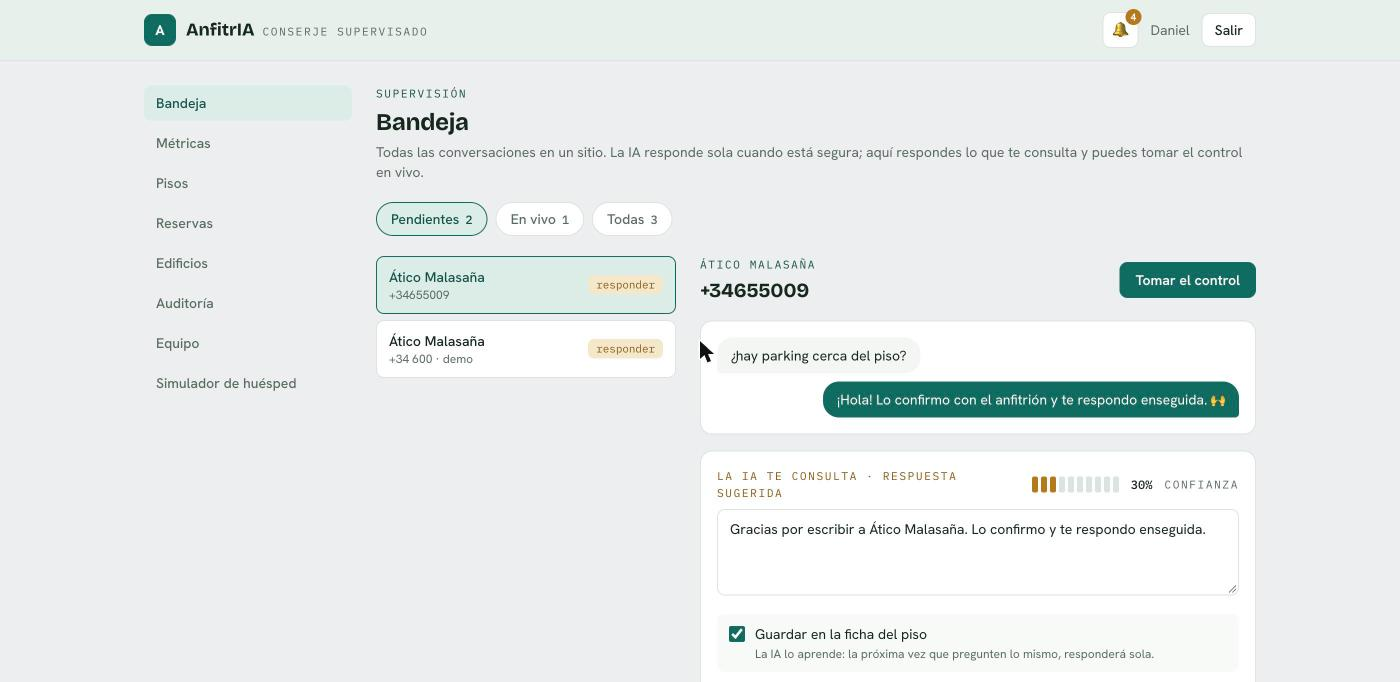
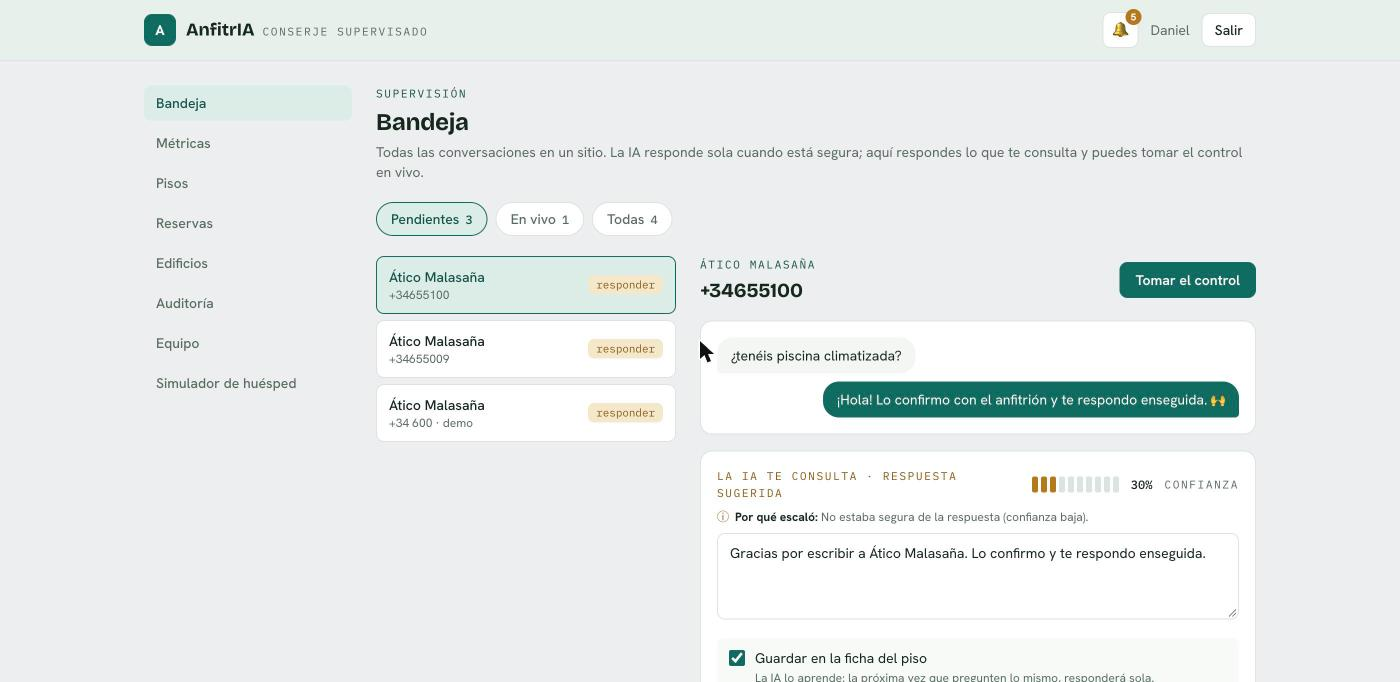
feat: '¿por qué escaló?' + sensibilidad de la IA por piso
- Draft.reason (auto/manual/sin_info/poca_confianza): se guarda el motivo y se
  muestra en la Bandeja ('Por qué escaló: ...')
- Umbral de confianza por piso (Property.auto_answer_threshold) + PATCH /properties;
  selector de sensibilidad (responde más / equilibrada / pregunta más) en Pisos
- Migración; +4 tests (57 backend), verificado en vivo

Claude-Session: https://claude.ai/code/session_01Vx6Kn3N7cjVf7QimiVSw3U

diff --git a/frontend/src/pages/PropertiesPage.tsx b/frontend/src/pages/PropertiesPage.tsx
@@ -3,6 +3,7 @@ import { useMutation, useQuery, useQueryClient } from '@tanstack/react-query'
 
 import { BuildingsApi, PropertiesApi } from '../api/endpoints'
 import { Button, Card, ConfirmButton, EmptyState, Field, Tag, TextArea } from '../components/ui'
+import { notify } from '../components/Toast'
 import type { KnowledgeItem, Property } from '../types'
 
 const CATEGORIES = ['check-in', 'wifi', 'cómo llegar', 'normas', 'recomendaciones', 'general']
@@ -163,6 +164,18 @@ function KnowledgePanel({ property }: { property: Property }) {
     },
   })
 
+  const setSensitivity = useMutation({
+    mutationFn: (threshold: number) =>
+      PropertiesApi.update(property.id, { auto_answer_threshold: threshold }),
+    onSuccess: () => {
+      notify('Sensibilidad actualizada.', 'success')
+      void queryClient.invalidateQueries({ queryKey: ['properties'] })
+    },
+  })
+  const th = property.auto_answer_threshold ?? 0.55
+  const sensitivity = th <= 0.45 ? 'responde' : th >= 0.65 ? 'pregunta' : 'equilibrada'
+  const SENS_TO_TH: Record<string, number> = { responde: 0.4, equilibrada: 0.55, pregunta: 0.7 }
+
   const fileRef = useRef<HTMLInputElement>(null)
   const importFile = useMutation({
     mutationFn: (file: File) => PropertiesApi.importKnowledge(property.id, file),
@@ -175,6 +188,23 @@ function KnowledgePanel({ property }: { property: Property }) {
         <p className="eyebrow text-brand-ink">Ficha de conocimiento</p>
         <h2 className="mt-1 font-display text-xl font-bold text-ink">{property.name}</h2>
       </header>
+
+      <Card className="flex flex-wrap items-center justify-between gap-3 p-4">
+        <div>
+          <span className="text-sm font-medium text-ink">Sensibilidad de la IA</span>
+          <p className="text-xs text-muted">Cuánta seguridad necesita para responder sola.</p>
+        </div>
+        <select
+          value={sensitivity}
+          onChange={(e) => setSensitivity.mutate(SENS_TO_TH[e.target.value])}
+          disabled={setSensitivity.isPending}
+          className="rounded-lg border border-line bg-surface px-3 py-2 text-sm text-ink focus:border-brand focus:ring-2 focus:ring-brand-soft"
+        >
+          <option value="responde">Responde más (menos escaladas)</option>
+          <option value="equilibrada">Equilibrada</option>
+          <option value="pregunta">Pregunta más (más escaladas)</option>
+        </select>
+      </Card>
 
       <Card className="p-4">
         <div className="flex flex-col gap-3">

diff --git a/frontend/src/pages/BandejaPage.tsx b/frontend/src/pages/BandejaPage.tsx
@@ -12,6 +12,11 @@ type Filter = 'pending' | 'live' | 'all'
 const SOURCE_LABEL: Record<string, string> = {
   booking: 'Booking', airbnb: 'Airbnb', direct: 'Directa', other: 'Otro',
 }
+const REASON_LABEL: Record<string, string> = {
+  sin_info: 'No encontró información que encaje en la ficha del piso.',
+  poca_confianza: 'No estaba segura de la respuesta (confianza baja).',
+  manual: 'Este piso está en modo manual: revisas todas las respuestas.',
+}
 function fmtDay(iso: string): string {
   return new Date(iso + 'T00:00:00').toLocaleDateString('es-ES', { day: '2-digit', month: 'short' })
 }
@@ -285,6 +290,14 @@ function ApprovalBox({ item }: { item: InboxItem }) {
         <span className="eyebrow text-brass-ink">La IA te consulta · respuesta sugerida</span>
         <ConfidenceMeter value={item.draft.confidence} />
       </div>
+      {item.draft.reason && REASON_LABEL[item.draft.reason] ? (
+        <p className="mb-2 flex items-start gap-1.5 text-xs text-muted">
+          <span aria-hidden className="text-brass-ink">ⓘ</span>
+          <span>
+            <b className="text-ink">Por qué escaló:</b> {REASON_LABEL[item.draft.reason]}
+          </span>
+        </p>
+      ) : null}
       <TextArea rows={3} value={text} onChange={(e) => setText(e.target.value)} />
       <label className="mt-3 flex items-start gap-2.5 rounded-lg bg-sunk/60 px-3 py-2.5">
         <input

diff --git a/frontend/src/api/endpoints.ts b/frontend/src/api/endpoints.ts
@@ -75,8 +75,13 @@ export const PropertiesApi = {
     address?: string
     default_language: string
     auto_answer?: boolean
+    auto_answer_threshold?: number | null
     building_id?: number | null
   }) => api<Property>('/properties', { method: 'POST', body }),
+  update: (
+    id: number,
+    body: Partial<{ auto_answer: boolean; auto_answer_threshold: number | null }>,
+  ) => api<Property>(`/properties/${id}`, { method: 'PATCH', body }),
   remove: (id: number) => api<void>(`/properties/${id}`, { method: 'DELETE' }),
   knowledge: (propertyId: number) =>
     api<KnowledgeItem[]>(`/properties/${propertyId}/knowledge`),

diff --git a/frontend/src/types.ts b/frontend/src/types.ts
@@ -29,6 +29,7 @@ export interface Property {
   address: string | null
   default_language: string
   auto_answer: boolean
+  auto_answer_threshold: number | null
   building_id: number | null
 }
 
@@ -53,6 +54,7 @@ export interface Draft {
   language: string
   confidence: number
   model: string
+  reason: string | null
   status: string
 }
 

diff --git a/backend/tests/test_reason.py b/backend/tests/test_reason.py
@@ -1,0 +1,76 @@
+"""Tests del '¿por qué escaló?' (motivo) y del umbral de sensibilidad por piso."""
+import pytest
+
+from tests.conftest import register_and_login
+
+
+async def _prop(client, headers, **extra):
+    body = {"name": "Piso", "auto_answer": True, **extra}
+    return (await client.post("/properties", json=body, headers=headers)).json()["id"]
+
+
+async def _inbound(client, headers, pid, text, guest="+34600"):
+    return await client.post(
+        "/channels/sim/inbound",
+        json={"property_id": pid, "guest_ref": guest, "text": text},
+        headers=headers,
+    )
+
+
+async def _last_reason(client, headers):
+    inbox = (await client.get("/inbox", headers=headers)).json()
+    return inbox[0]["draft"]["reason"]
+
+
+@pytest.mark.asyncio
+async def test_reason_sin_info(client):
+    headers = await register_and_login(client, email="r1@test.com")
+    pid = await _prop(client, headers)  # sin conocimiento
+    r = await _inbound(client, headers, pid, "¿hay piscina?")
+    assert r.json()["answered"] is False
+    assert await _last_reason(client, headers) == "sin_info"
+
+
+@pytest.mark.asyncio
+async def test_reason_poca_confianza(client):
+    headers = await register_and_login(client, email="r2@test.com")
+    pid = await _prop(client, headers)
+    await client.post(
+        f"/properties/{pid}/knowledge",
+        json={"category": "check-in", "content": "El check-in es a las 15:00"},
+        headers=headers,
+    )
+    # Hay ficha, pero la pregunta no encaja → escala por poca confianza.
+    await _inbound(client, headers, pid, "¿hay piscina climatizada?")
+    assert await _last_reason(client, headers) == "poca_confianza"
+
+
+@pytest.mark.asyncio
+async def test_reason_manual(client):
+    headers = await register_and_login(client, email="r3@test.com")
+    pid = await _prop(client, headers, auto_answer=False)
+    await _inbound(client, headers, pid, "hola")
+    assert await _last_reason(client, headers) == "manual"
+
+
+@pytest.mark.asyncio
+async def test_per_property_threshold(client):
+    headers = await register_and_login(client, email="r4@test.com")
+    pid = await _prop(client, headers, auto_answer_threshold=0.99)
+    await client.post(
+        f"/properties/{pid}/knowledge",
+        json={"category": "wifi", "content": "La contraseña del wifi es CASA-1234"},
+        headers=headers,
+    )
+    # Umbral altísimo: aunque encuentre el wifi, no llega → escala.
+    r = await _inbound(client, headers, pid, "¿cuál es la contraseña del wifi?", guest="+34601")
+    assert r.json()["answered"] is False
+
+    # Bajamos el umbral (PATCH) → ahora responde sola.
+    patch = await client.patch(
+        f"/properties/{pid}", json={"auto_answer_threshold": 0.1}, headers=headers
+    )
+    assert patch.status_code == 200
+    assert patch.json()["auto_answer_threshold"] == 0.1
+    r = await _inbound(client, headers, pid, "¿cuál es la contraseña del wifi?", guest="+34602")
+    assert r.json()["answered"] is True

diff --git a/backend/app/api/properties.py b/backend/app/api/properties.py
@@ -14,6 +14,7 @@ from app.schemas import (
     KnowledgeUpdate,
     PropertyCreate,
     PropertyOut,
+    PropertyUpdate,
 )
 from app.services.import_knowledge import parse_upload
 
@@ -56,6 +57,7 @@ async def create_property(
         address=data.address,
         default_language=data.default_language,
         auto_answer=data.auto_answer,
+        auto_answer_threshold=data.auto_answer_threshold,
         whatsapp_phone_number_id=data.whatsapp_phone_number_id,
         building_id=data.building_id,
     )
@@ -80,6 +82,21 @@ async def list_properties(
         .offset(offset)
     )
     return list(result.scalars().all())
+
+
+@router.patch("/properties/{property_id}", response_model=PropertyOut)
+async def update_property(
+    property_id: int,
+    data: PropertyUpdate,
+    user: User = Depends(get_current_user),
+    session: AsyncSession = Depends(get_session),
+) -> Property:
+    prop = await get_owned_property(session, property_id, user)
+    for field_name, value in data.model_dump(exclude_unset=True).items():
+        setattr(prop, field_name, value)
+    await session.commit()
+    await session.refresh(prop)
+    return prop
 
 
 @router.delete("/properties/{property_id}", status_code=status.HTTP_204_NO_CONTENT)

diff --git a/backend/app/models.py b/backend/app/models.py
@@ -77,6 +77,8 @@ class Property(Base):
     default_language: Mapped[str] = mapped_column(String(8), default="es")
     # Si True, la IA responde sola cuando tiene confianza; si no, escala al anfitrión.
     auto_answer: Mapped[bool] = mapped_column(default=True)
+    # Umbral de confianza propio del piso (0-1). Si None, usa el global de la app.
+    auto_answer_threshold: Mapped[float | None] = mapped_column(Float, default=None)
     # Número de WhatsApp (phone_number_id de Meta) asignado a este piso, para enrutar la entrada.
     whatsapp_phone_number_id: Mapped[str | None] = mapped_column(
         String(64), default=None, index=True
@@ -195,6 +197,8 @@ class Draft(Base):
     language: Mapped[str] = mapped_column(String(8), default="es")
     confidence: Mapped[float] = mapped_column(Float, default=0.0)
     model: Mapped[str] = mapped_column(String(64), default="mock")
+    # Por qué actuó así: auto | manual | sin_info | poca_confianza
+    reason: Mapped[str | None] = mapped_column(String(24), default=None)
     # pending | approved | edited | sent
     status: Mapped[str] = mapped_column(String(16), default="pending")
     created_at: Mapped[datetime] = mapped_column(DateTime(timezone=True), default=_utcnow)

diff --git a/backend/app/schemas.py b/backend/app/schemas.py
@@ -68,8 +68,17 @@ class PropertyCreate(BaseModel):
     address: str | None = Field(default=None, max_length=500)
     default_language: str = Field(default="es", max_length=8)
     auto_answer: bool = True
+    auto_answer_threshold: float | None = Field(default=None, ge=0.0, le=1.0)
     whatsapp_phone_number_id: str | None = Field(default=None, max_length=64)
     building_id: int | None = None
+
+
+class PropertyUpdate(BaseModel):
+    name: str | None = Field(default=None, min_length=1, max_length=120)
+    default_language: str | None = Field(default=None, max_length=8)
+    auto_answer: bool | None = None
+    auto_answer_threshold: float | None = Field(default=None, ge=0.0, le=1.0)
+    whatsapp_phone_number_id: str | None = Field(default=None, max_length=64)
 
 
 class PropertyOut(BaseModel):
@@ -79,6 +88,7 @@ class PropertyOut(BaseModel):
     address: str | None
     default_language: str
     auto_answer: bool
+    auto_answer_threshold: float | None
     whatsapp_phone_number_id: str | None
     building_id: int | None
 
@@ -168,6 +178,7 @@ class DraftOut(BaseModel):
     language: str
     confidence: float
     model: str
+    reason: str | None = None
     status: str
 
 

diff --git a/backend/app/services/conversation.py b/backend/app/services/conversation.py
@@ -155,12 +155,31 @@ async def handle_inbound(
         )
     )
 
+    # Umbral efectivo: el propio del piso si lo tiene, si no el global.
+    threshold = (
+        property.auto_answer_threshold
+        if property.auto_answer_threshold is not None
+        else settings.auto_answer_threshold
+    )
+    answered = property.auto_answer and reply.confidence >= threshold
+
+    # Motivo (para el "¿por qué escaló?").
+    if answered:
+        reason = "auto"
+    elif not property.auto_answer:
+        reason = "manual"
+    elif not all_knowledge:
+        reason = "sin_info"
+    else:
+        reason = "poca_confianza"
+
     draft = Draft(
         inbound_message_id=inbound.id,
         text=reply.text,
         language=reply.language,
         confidence=reply.confidence,
         model=reply.model,
+        reason=reason,
         status="pending",
     )
     session.add(draft)
@@ -175,7 +194,6 @@ async def handle_inbound(
     await session.flush()
 
     channel = get_channel()
-    answered = property.auto_answer and reply.confidence >= settings.auto_answer_threshold
 
     if answered:
         # La IA responde sola al huésped.

diff --git a/backend/migrations/versions/0f4026521d17_escalation_reason_and_per_property_.py b/backend/migrations/versions/0f4026521d17_escalation_reason_and_per_property_.py
@@ -1,0 +1,26 @@
+"""escalation reason and per-property threshold
+
+Revision ID: 0f4026521d17
+Revises: 25da2e3992e4
+Create Date: 2026-09-24 11:09:38.558555
+"""
+from collections.abc import Sequence
+
+from alembic import op
+import sqlalchemy as sa
+
+
+revision: str = '0f4026521d17'
+down_revision: str | None = '25da2e3992e4'
+branch_labels: str | Sequence[str] | None = None
+depends_on: str | Sequence[str] | None = None
+
+
+def upgrade() -> None:
+    op.add_column('drafts', sa.Column('reason', sa.String(length=24), nullable=True))
+    op.add_column('properties', sa.Column('auto_answer_threshold', sa.Float(), nullable=True))
+
+
+def downgrade() -> None:
+    op.drop_column('properties', 'auto_answer_threshold')
+    op.drop_column('drafts', 'reason')

diff --git a/README.md b/README.md
@@ -42,8 +42,9 @@ manda un aviso de espera y lo escala (el huésped nunca se queda sin respuesta):
 
 **Bandeja** — todas las conversaciones en un sitio, con filtros **Pendientes /
 En vivo / Todas**. Al abrir una, ves el hilo, la **respuesta sugerida por la IA**
-(con su medidor de confianza) para editarla y enviarla, y puedes **tomar el
-control** para atender en vivo:
+(con su medidor de confianza) para editarla y enviarla, **por qué escaló**
+(no tenía info / poca confianza / modo manual), y puedes **tomar el control**
+para atender en vivo. La **sensibilidad** de la IA se ajusta por piso desde *Pisos*:
 
 ![Bandeja](docs/img/bandeja.jpg)
 
